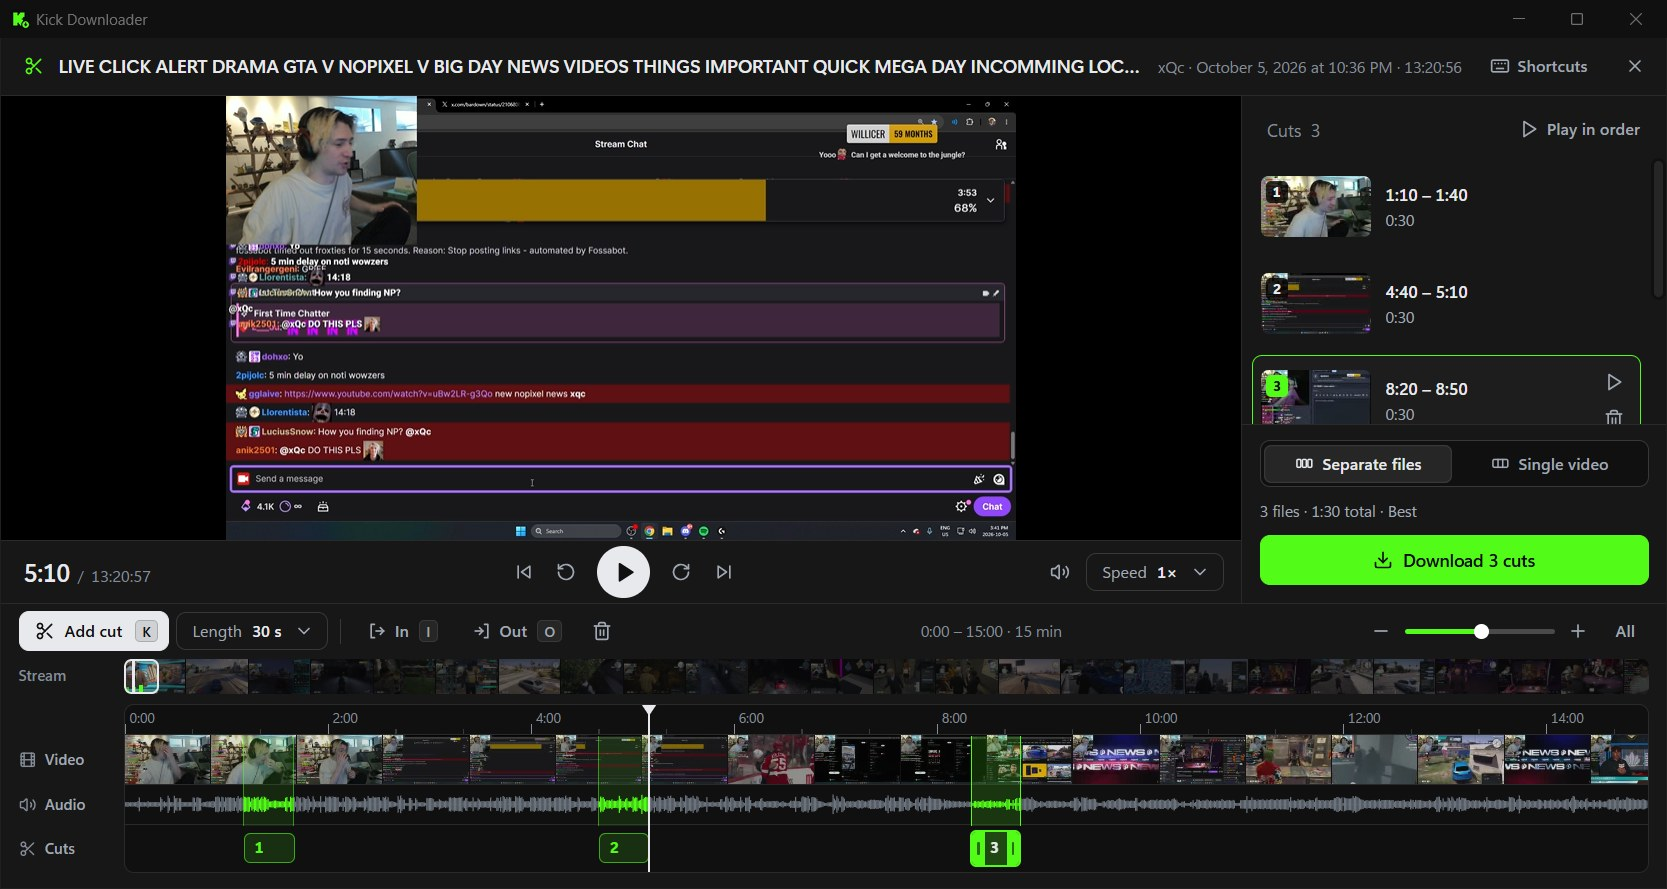
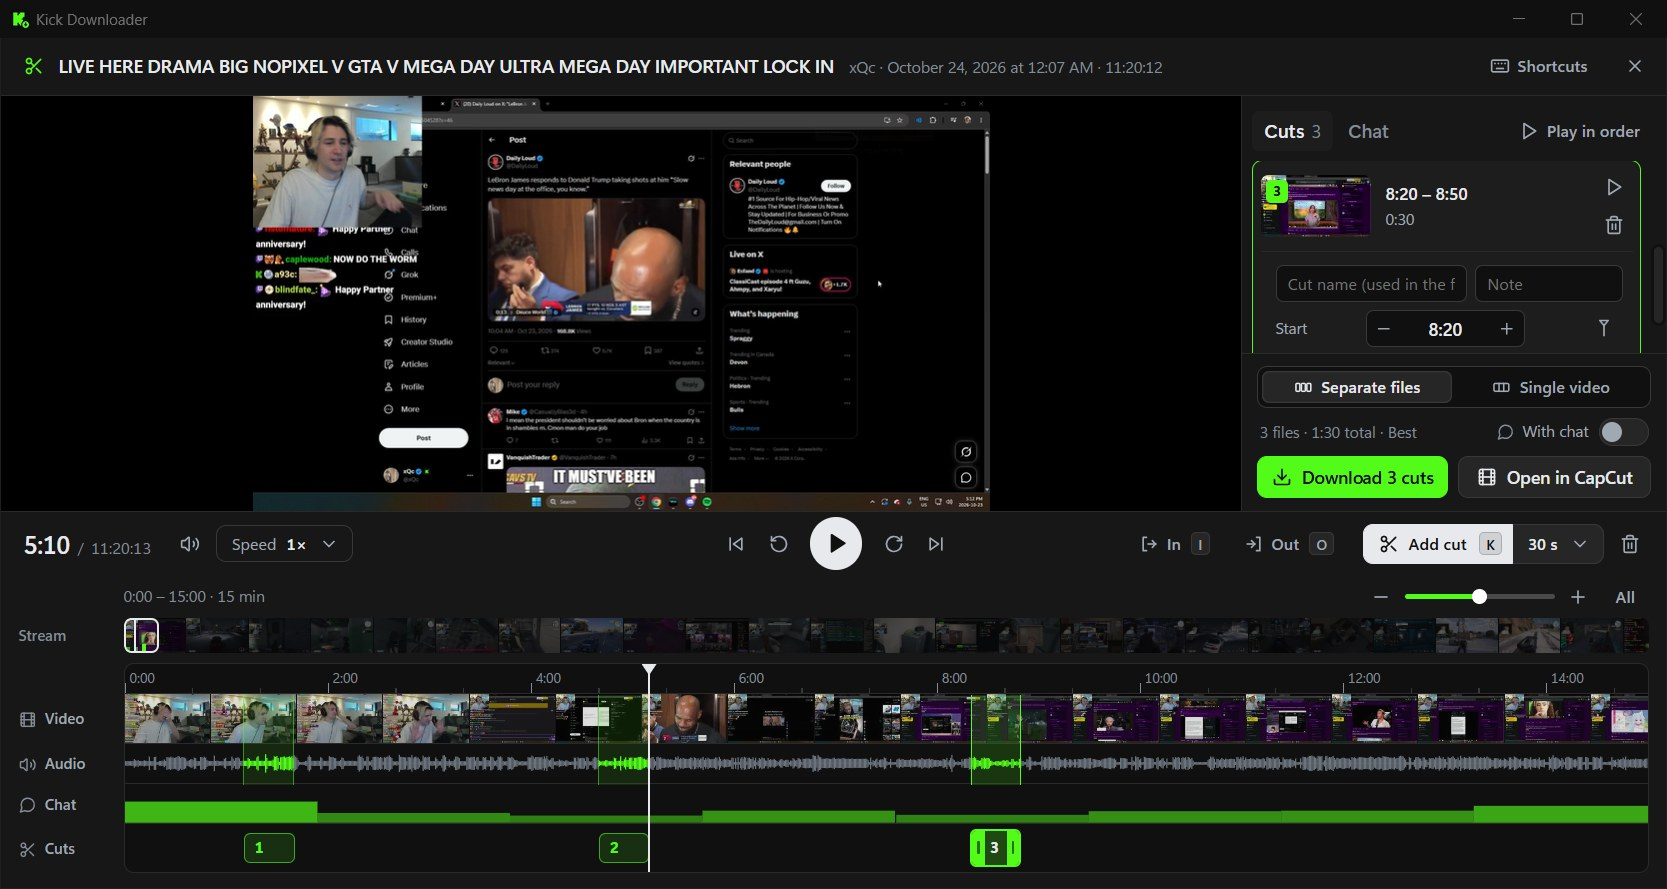
Update READMEs with player menus, chat track, CapCut; new screenshots (en, tr)

diff --git a/web/app.js b/web/app.js
@@ -2482,8 +2482,10 @@ async function loadChatDensity(vod) {
   const res = await state.api.chat_density(vod.uuid, vod.duration, false);
   if (cut.vod !== vod) return;
   const counts = res.ok ? res.counts : [];
+  const sorted = [...counts].sort((a, b) => a - b);
+  const at = (q) => sorted[Math.min(sorted.length - 1, Math.floor(sorted.length * q))] || 0;
   cut.density = res.ok
-    ? { uuid: vod.uuid, state: "ok", bin: res.bin, counts, max: Math.max(1, ...[...counts].sort((a, b) => a - b).slice(0, Math.max(1, Math.floor(counts.length * 0.98)))) }
+    ? { uuid: vod.uuid, state: "ok", bin: res.bin, counts, lo: at(0.1), hi: Math.max(at(0.98), at(0.1) + 1) }   // goreli yogunluk: sakin = alcak, patlama = tam boy
     : { uuid: vod.uuid, state: "error" };
   drawChatDensity();
 }
@@ -2512,8 +2514,8 @@ function drawChatDensity() {
   const px = cw / span;
   const first = Math.max(0, Math.floor(s / d.bin));
   for (let i = first; i < d.counts.length && i * d.bin < e; i++) {
-    const r = Math.min(1, d.counts[i] / d.max);
-    if (!r) continue;
+    if (!d.counts[i]) continue;
+    const r = 0.1 + 0.9 * clamp((d.counts[i] - d.lo) / (d.hi - d.lo), 0, 1);
     const x0 = (i * d.bin - s) * px;
     const h = Math.max(1.5, r * (ch - 2));
     g.globalAlpha = r > 0.7 ? 1 : 0.35 + r * 0.6;

diff --git a/web/app.css b/web/app.css
@@ -841,7 +841,7 @@ input[type="range"]:hover::-webkit-slider-thumb { transform: scale(1.2); }
 kbd { font: 600 11px var(--font); padding: 1px 5px; border-radius: 4px; background: var(--s3); border: 1px solid var(--line2); color: var(--muted); }
 
 .cutter {
-  --ovh: 34px; --ruh: 24px; --fih: calc(52px + var(--tlx, 0px) * .6); --wah: calc(40px + var(--tlx, 0px) * .4); --lah: 44px; --cdh: 26px; --headw: 84px;
+  --ovh: 34px; --ruh: 24px; --fih: calc(52px + var(--tlx, 0px) * .6); --wah: calc(40px + var(--tlx, 0px) * .4); --lah: 44px; --cdh: 32px; --headw: 84px;
   width: 100vw; height: 100vh; max-width: none; max-height: none; padding: 0; margin: 0;
   background: var(--bg); color: var(--text); border: 0; border-radius: 0;
   overflow: hidden;

diff --git a/tools/screenshots.py b/tools/screenshots.py
@@ -37,7 +37,7 @@ if SLUGS:
     favorites = [{"slug": s, "name": s, "avatar": ""} for s in SLUGS]
 with open(os.path.join(tmp, "KickIndirici", "settings.json"), "w", encoding="utf-8") as f:
     json.dump({"lang": LANG, "favorites": favorites, "updateCheck": False, "clipboardWatch": False,
-               "notifyLive": False, "folder": r"C:\Users\you\Downloads\Kick"}, f)   # indirme olmaz; gercek kullanici adi gorunmesin
+               "notifyLive": False, "telemetry": False, "folder": r"C:\Users\you\Downloads\Kick"}, f)   # indirme olmaz; gercek kullanici adi gorunmesin
 
 sys.path.insert(0, os.path.join(ROOT, "src"))
 import webview                                   # noqa: E402
@@ -151,10 +151,21 @@ def driver(window):
     shot("preview", 2.5)
     reset()
 
-    # 4 izleme penceresi
-    js("focusItem(state.vods[1].url)")
+    # 4 izleme penceresi: sohbet yan panelde, yogun bir ani gosterir
+    js("const v = state.vods[1]; focusItem(v.url, Math.min(1800, Math.floor((v.duration || 3600) * 0.3)))")
     wait("$('player').classList.contains('playing')", 25)
+    wait("document.querySelectorAll('#wChatBody .chatp-list li').length > 8", 40)
     shot("watch", 2.5)
+
+    # 4b oynatici cubugu: hiz menusu acik (cubuk yalniz fare ustundeyken gorunur, o yuzden zorlanir)
+    js("document.head.insertAdjacentHTML('beforeend', '<style id=\"shotCtl\">.pctl{opacity:1!important}</style>'); $('pRate').click()")
+    shot("player-menu", 1)
+    js("$('pRate').click(); $('shotCtl').remove()")
+
+    # 4c sohbetten mesaj sec: secim cubugu ve Kopyala / Kaydet
+    js("const li = document.querySelectorAll('#wChatBody .chatp-list li'); const n = li.length; li[n - 4].click();"
+       "li[n - 2].dispatchEvent(new MouseEvent('click', { bubbles: true, shiftKey: true }))")
+    shot("chat-select", 1)
     reset()
 
     # 5 secim: dort video secili, liste acik
@@ -194,6 +205,7 @@ def driver(window):
     wait("$('cutVideo').readyState >= 2", 30)
     js("seekTo(310)")
     wait("!!(cut.strip && cut.strip.segs) && $('waveNote').hidden", 90)
+    wait("!!cut.density && cut.density.state !== 'loading'", 150)      # sohbet yogunlugu seridi
     shot("cut-editor", 6)
     js("closeCutter()")
 
@@ -205,6 +217,10 @@ def driver(window):
     # 12 ayarlar
     js("showView('settings')")
     shot("settings")
+
+    # 13 sohbet ayarlari: sohbet videosu (yesil perde / saydam), dosya turleri
+    js("const c = $('setCvChips'); c.scrollIntoView({ block: 'center' })")
+    shot("settings-chat", 1)
     window.destroy()
 
 

diff --git a/README.md b/README.md
@@ -9,7 +9,7 @@
 **Download Kick streams, clips and live streams as fast as your connection allows.**
 Watch, cut out the moments you want, record live. All in one window.
 
-![Version](https://img.shields.io/badge/version-1.0.0-53FC18?style=flat-square&labelColor=0b0e0f)
+![Version](https://img.shields.io/badge/version-1.2.0-53FC18?style=flat-square&labelColor=0b0e0f)
 ![Windows](https://img.shields.io/badge/Windows-10%20%7C%2011-53FC18?style=flat-square&labelColor=0b0e0f)
 ![Python](https://img.shields.io/badge/Python-3-53FC18?style=flat-square&labelColor=0b0e0f)
 
@@ -74,6 +74,33 @@ The **chat** runs beside the video, in step with playback, for VODs, clips, live
 
 <img src="docs/img/en/watch.jpg" alt="The watch window in the middle" width="900">
 
+<table>
+<tr>
+<td width="50%" valign="top">
+
+**Speed and quality**
+
+The player bar has a speed menu (0.25× – 2×; **,** and **.** step it) and a quality menu: *Auto*, or a fixed resolution such as 720p60. Both stay for the next videos you open. A live stream has the quality menu only.
+
+<img src="docs/img/en/player-menu.jpg" alt="Player bar with the speed menu open">
+
+</td>
+<td width="50%" valign="top">
+
+**Pick chat messages**
+
+Click a message, then **Shift**-click another to select everything between. **Copy** or **Save** makes a PNG image of them; the film button makes a short chat video of just those messages.
+
+<img src="docs/img/en/chat-select.jpg" alt="Chat panel with three messages selected">
+
+</td>
+</tr>
+</table>
+
+Which chat files are saved, and how the chat video looks, are set in Settings → Chat:
+
+<img src="docs/img/en/settings-chat.jpg" alt="Settings: chat files and chat video" width="900">
+
 <br>
 
 ### Select many videos, download with one click
@@ -100,6 +127,8 @@ The **⋮** button beside the title, or **right-click**. The menu follows the vi
 
 - **K** adds a cut of preset length around the playhead. Adjust the edges by dragging or by typing times.
 - Cuts download as **separate files** or as **a single video**.
+- **Open in CapCut** downloads the cuts, lays them one after another in a new CapCut project at the stream's own size and opens CapCut (the chat video can be added too). CapCut for Windows must be installed.
+- A **chat track** under the audio waveform shows how busy the chat is, minute by minute: tall bars are where something happened. It is a quick estimate from a sample of the chat, loaded in the background (about 30 seconds for a long stream), for finished streams only.
 - Only the parts covering the range are downloaded. A 30-second cut from a 4-hour stream does not fetch 4 hours of data.
 - You can cut from a live stream too: go back while it is still running and cut the moment you want.
 
@@ -139,7 +168,8 @@ Finished files are grouped by day. A file plays inside the app, opens in the Win
 | **No speed tuning** | The app measures total speed and decides how many videos download at once (1–6). Each video fetches its parts over 8–32 connections. |
 | **Speed limit** | Cap the total speed so the line is not full while you game or watch streams. |
 | **Live recording** | Records a live stream from now on. When it ends, the `.ts` file becomes `.mp4`. |
-| **Download chat** | Saves a VOD's chat as an `.ass` subtitle (VLC / MPC scroll it over the video) and `.chat.json`. |
+| **Download chat** | Downloads the full chat of a stream, cut, clip or live recording: `.ass` subtitle (VLC / MPC scroll it over the video), `.txt`, `.json`, `.html`. With *Download chat with videos* on, it comes with every download. |
+| **Chat video** | Makes the chat into its own scrolling video to put beside the stream in your editor. Green screen `.mp4` or transparent `.webm`; size, text size and time / badges / emotes are in Settings → Chat. Also made from a chat in Downloads or from the messages selected in the panel. |
 | **Resume** | If the app closes, unfinished downloads continue on next start with *Resume*. |
 | **Disk guard** | Free space is checked before a download starts. A download that does not fit fails with a clear message; the rest of the queue continues. |
 | **When done** | When the queue finishes: do nothing, sleep, or shut down (60 s countdown, cancellable). |
@@ -233,6 +263,7 @@ Press **?** in the app to see the list.
 | `K` | Play / pause |
 | `M` | Mute / unmute |
 | `F` | Full screen |
+| `,` `.` | Slower / faster |
 | `←` `→` | Previous / next video |
 | `Esc` | Close |
 
